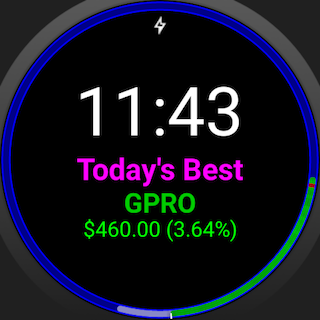
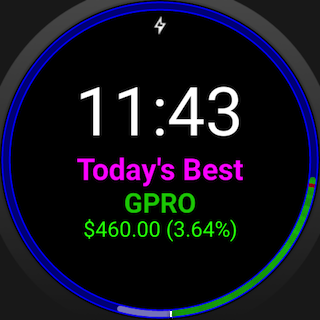
watch face tweaks

Changed region(s): [[0.25, 0.5938, 0.75, 0.75], [0.5312, 0.9688, 0.5625, 1.0], [0.4375, 0.9688, 0.4688, 1.0]]

diff --git a/MockTradeWear/src/main/java/com/balch/mocktrade/MockTradeFace.java b/MockTradeWear/src/main/java/com/balch/mocktrade/MockTradeFace.java
@@ -82,15 +82,13 @@ public class MockTradeFace extends CanvasWatchFaceService {
     private static final Typeface NORMAL_TYPEFACE =
             Typeface.create(Typeface.SANS_SERIF, Typeface.NORMAL);
 
-    private static final float TIME_TICK_STROKE_WIDTH = 2f;
+    private static final float TIME_TICK_STROKE_WIDTH = 3f;
     private static final int SHADOW_RADIUS = 6;
+    private static final int BASE_PERFORMANCE_COLOR_COMPONENT = 128;
 
     private static final long INTERACTIVE_UPDATE_RATE_MS = TimeUnit.SECONDS.toMillis(15);
     private static final long MILLIS_PER_DAY = TimeUnit.DAYS.toMillis(1);
 
-    /**
-     * Handler message id for updating the time periodically in interactive mode.
-     */
     private static final int MSG_UPDATE_TIME = 0;
 
     @Override
@@ -371,7 +369,7 @@ public class MockTradeFace extends CanvasWatchFaceService {
                     int color = Color.rgb(156, 156, 156);
                     long todayChange = item.getTodayChange().getMicroCents();
                     if (todayChange != 0) {
-                        int colorComponent = (int) Math.min(255, 155 + 100 * (Math.abs(todayChange) / extents));
+                        int colorComponent = (int) Math.min(255, BASE_PERFORMANCE_COLOR_COMPONENT + (255 - BASE_PERFORMANCE_COLOR_COMPONENT) * (Math.abs(todayChange) / extents));
                         color = (todayChange < 0) ? Color.rgb(colorComponent, 0, 0) : Color.rgb(0, colorComponent, 0);
                     }
 
@@ -476,8 +474,13 @@ public class MockTradeFace extends CanvasWatchFaceService {
 
             canvas.save();
             canvas.rotate(-90, centerX, centerY);
-            canvas.drawArc(mMarketArcRect, mMarketOpenDegrees, mMarketDurationDegrees,false, mMarketTimePaint);
 
+            // only draw default arc if the performance arc is not complete
+            if (mMarketDurationDegrees != mPerformanceDurationDegrees) {
+                canvas.drawArc(mMarketArcRect, mMarketOpenDegrees, mMarketDurationDegrees, false, mMarketTimePaint);
+            }
+
+            // draw performance arc
             if (mPerformanceItems != null) {
                 canvas.drawArc(mMarketArcRect, mMarketOpenDegrees, mPerformanceDurationDegrees, false, mMarketDayRingPaint);
             }
@@ -572,8 +575,8 @@ public class MockTradeFace extends CanvasWatchFaceService {
         private void drawTimeTick(Calendar time, float centerX, float centerY, Canvas canvas, Paint paint) {
             float hours = time.get(Calendar.HOUR_OF_DAY) + time.get(Calendar.MINUTE) / 60.0f + time.get(Calendar.SECOND) / 3600.0f;
 
-            float innerTickRadius = centerX - 10 - mChinSize;
-            float outerTickRadius = centerX - 1 - mChinSize;
+            float innerTickRadius = centerX - 13 - mChinSize;
+            float outerTickRadius = centerX - 2 - mChinSize;
             float tickRot = (float) (hours * Math.PI * 2 / 24);
             float innerX = (float) Math.sin(tickRot) * innerTickRadius;
             float innerY = (float) -Math.cos(tickRot) * innerTickRadius;
